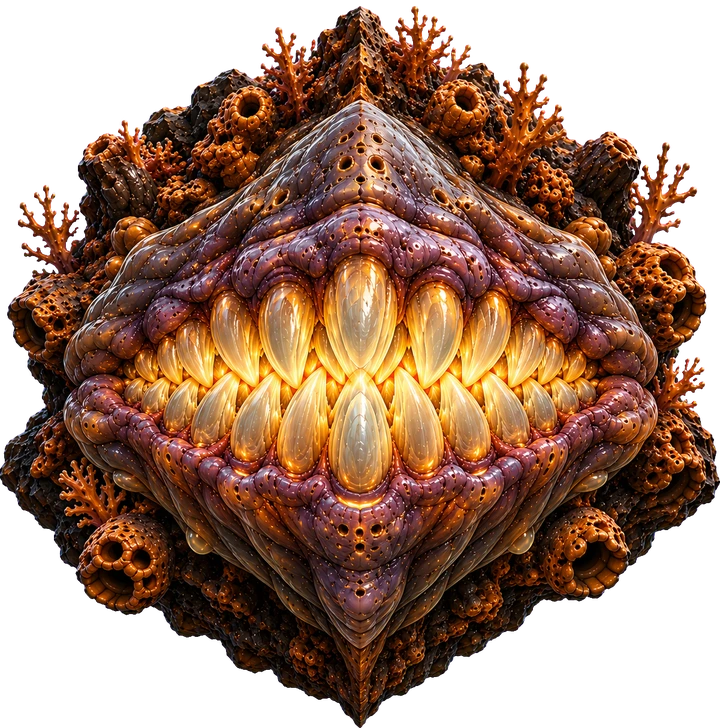
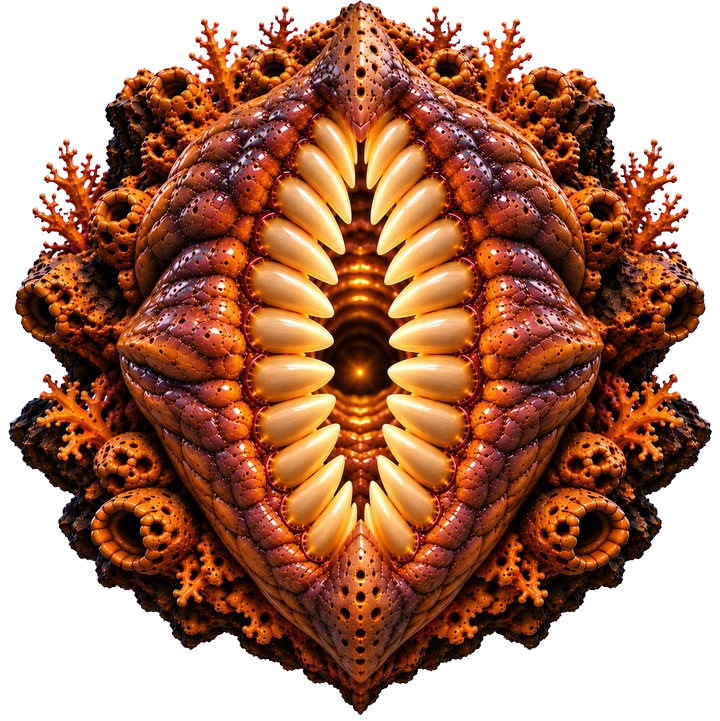
Пасть: три состояния, отход после пика, проход по правилам 1c/1d
- maw.js: кроссфейд open -> half -> closed по смыканию; после пика отход:
  проход расширяется, масштаб до 90%, затемнение до 40%
- Проход на экране считается с учётом масштаба; центр проходим на всём
  протяжении (симуляция: 0 смертей из 1.6 млн проверок центра)
- key_maw.py ключует три исходника; ассеты maw_open/half/closed.webp

diff --git a/js/maw.js b/js/maw.js
@@ -1,16 +1,19 @@
 // ===== maw.js =====
 // ============================================================
-// ПАСТЬ — веха. Перекрывает ущелье по ширине: зубы стоят у стен, между
-// ними отверстие по центру. По мере приближения дрона зубы сходятся.
+// ПАСТЬ — веха. Занимает всю ширину передышки: губы прилегают к стенам,
+// зубы-полусферы образуют дугу, между вершинами по центру — глотка-сфинктер.
+// Правила прохождения — docs/tz_creatures_ru.md (1, 1a–1d):
+//   1.  Проход всегда возможен, если войти по центру (96 px между вершинами).
+//   1a. Смертельны только зубы. Губы и десны проходятся без урона.
+//   1c. Сомкнутая пасть проходима только по центральной оси, в пике смыкания.
+//       Затем пасть отходит: проход расширяется, пасть уменьшается и темнеет.
+//   1d. По бокам пустот нет: пасть занимает всю ширину коридора.
 //
-// Правила прохождения (docs/tz_creatures_ru.md, согласованы):
-//   1. Проход всегда возможен, если войти по центру: отверстие не закрывается
-//      ниже HOLE_RX_MIN, то есть 96 px поперёк при дроне 36 px.
-//   2. Смыкание идёт CLOSE_S секунд падения (не меньше 0.5 с).
-//   3. Смыкание начинается до входа: сигнал виден заранее.
-//
-// Прогресс смыкания p — функция глубины, а не таймера. Значит, картинка и
-// хитбокс всегда показывают одно и то же состояние, и пауза ничего не ломает.
+// Всё состояние — функция глубины дрона, а не таймера: картинка и проход
+// всегда показывают одно и то же, пауза ничего не ломает.
+//   start  — начало смыкания (до входа в пасть на SIGNAL_LEAD)
+//   closed — пик смыкания, проход минимальный (96 px по центру)
+//   closed .. closed+RETREAT — отход: проход расширяется, масштаб уменьшается
 // ============================================================
 
 const Maw = (() => {
@@ -19,7 +22,7 @@ const Maw = (() => {
   const W = M.W_PX, HH = M.H_PX;
   const DR = CONFIG.DRONE_RADIUS;
 
-  let list = [];            // {depth (центр в метрах), xc (центр отверстия, px), alive}
+  let list = [];            // {depth (центр в метрах), xc (центр по X, px)}
   let nextSpawn = 0;
   let armed = false;
   let _pxPerM = 1;
@@ -29,28 +32,39 @@ const Maw = (() => {
   function reset() { list = []; nextSpawn = 0; armed = false; _lastDepth = null; }
 
   function _span(pxPerM) { return HH / pxPerM; }
-
-  // Время смыкания в метрах падения при текущей скорости
   function _closeM() { return M.CLOSE_S * _v; }
+  function _retreatM() { return M.RETREAT_S * _v; }
 
-  // Прогресс смыкания 0..1 по глубине дрона. Сигнал начинается заранее:
-  // при входе в пасть смыкание уже на SIGNAL_LEAD.
-  function _p(m, droneDepth, pxPerM) {
-    const top = m.depth - _span(pxPerM) / 2;
-    const cm = _closeM();
-    const start = top - M.SIGNAL_LEAD * cm;
-    let u = (droneDepth - start) / cm;
+  // Гладкая кривая 0..1 по линейной величине u
+  function _ramp(u) {
     u = Math.max(0, Math.min(1, u));
     return u * u * (3 - 2 * u);
   }
 
-  // Полуширина отверстия при прогрессе p
-  function _rx(p) { return M.HOLE_RX + (M.HOLE_RX_MIN - M.HOLE_RX) * p; }
+  // Состояние пасти на глубине дрона dd:
+  //   p  — смыкание 0..1 (открыто -> сомкнуто)
+  //   q  — отход 0..1 (после пика)
+  //   s  — масштаб спрайта (1 -> 1 - SHRINK)
+  //   rx — полуширина прохода на экране, px
+  function _state(m, dd, pxPerM) {
+    const span = _span(pxPerM);
+    const top = m.depth - span / 2;
+    const cm = _closeM();
+    const rm = _retreatM();
+    const start = top - M.SIGNAL_LEAD * cm;
+    const closed = start + cm;
+    const p = _ramp((dd - start) / cm);
+    const q = _ramp((dd - closed) / rm);
+    let rx = M.HOLE_RX + (M.HOLE_RX_MIN - M.HOLE_RX) * p;
+    rx = rx + (M.HOLE_RX - rx) * q;
+    const s = 1 - M.SHRINK * q;
+    return { p, q, s, rx: rx * s };
+  }
 
   // ---------- появление ----------
 
   // Можно ли поставить пасть с центром на глубине dc: вся высота в передышке
-  // и ущелье не уже ширины спрайта
+  // и ущелье не уже ширины спрайта (правило 1d: пасть перекрывает коридор)
   function _fit(dc, pxPerM) {
     const span = _span(pxPerM);
     const top = Canyon.getWalls(dc - span / 2), bot = Canyon.getWalls(dc + span / 2);
@@ -74,7 +88,7 @@ const Maw = (() => {
         if (fit) { placed = { d, fit }; break; }
       }
       if (!placed) { nextSpawn += M.SEARCH_AHEAD; continue; }
-      list.push({ depth: placed.d, xc: placed.fit.xc, alive: true });
+      list.push({ depth: placed.d, xc: placed.fit.xc });
       nextSpawn = placed.d + M.SPAWN_EVERY;
     }
   }
@@ -90,32 +104,31 @@ const Maw = (() => {
     }
     _lastDepth = depth;
     _maybeSpawn(depth, aheadDepth, pxPerM);
-    // Пасть ушла за верх экрана целиком
+    // Пасть ушла за верх экрана целиком (с запасом на отход)
     const span = _span(pxPerM);
-    list = list.filter(m => m.depth + span / 2 > depth - 10);
+    list = list.filter(m => m.depth + span / 2 + _closeM() + _retreatM() > depth - 10);
   }
 
   // ---------- столкновение и выстрел ----------
 
+  // Дрон гибнет, если выходит за проход по центру. Зубы — единственная опасность.
   function hitTest(droneX, droneDepth, pxPerM) {
     const span = _span(pxPerM);
     for (const m of list) {
       if (droneDepth < m.depth - span / 2 || droneDepth > m.depth + span / 2) continue;
-      const rx = _rx(_p(m, droneDepth, pxPerM));
-      // Зубы сходятся к центру: за пределами отверстия дрон цел только если
-      // целиком внутри него, с учётом своего радиуса
-      if (Math.abs(droneX - m.xc) > rx - DR) return true;
+      const st = _state(m, droneDepth, pxPerM);
+      if (Math.abs(droneX - m.xc) > st.rx - DR) return true;
     }
     return false;
   }
 
-  // Пуля в зубы поглощается, в отверстие пролетает. Пасть не убивается.
+  // Пуля в зубы поглощается, в глотку пролетает. Пасть не умирает.
   function shootAt(sx, sDepth, pxPerM) {
     const span = _span(pxPerM);
     for (const m of list) {
       if (sDepth < m.depth - span / 2 || sDepth > m.depth + span / 2) continue;
-      const rx = _rx(_p(m, sDepth, pxPerM));
-      if (Math.abs(sx - m.xc) > rx) return { x: sx, y: sDepth };
+      const st = _state(m, sDepth, pxPerM);
+      if (Math.abs(sx - m.xc) > st.rx) return { x: sx, y: sDepth };
     }
     return null;
   }
@@ -131,29 +144,43 @@ const Maw = (() => {
 
   // ---------- отрисовка ----------
 
+  // Три спрайта: открыто (p=0) -> наполовину (p=0.5) -> сомкнуто (p=1).
+  // Переход между соседними кадрами — кроссфейд по p.
+  function _alphas(p) {
+    if (p <= 0.5) return { open: 1 - 2 * p, half: 2 * p, closed: 0 };
+    return { open: 0, half: 2 - 2 * p, closed: 2 * p - 1 };
+  }
+
   function draw(ctx, depth, pxPerM) {
     const open = Sprites.at('maw_open', W, HH, false);
+    const half = Sprites.at('maw_half', W, HH, false);
     const shut = Sprites.at('maw_closed', W, HH, false);
-    if (!open || !shut) return;   // игра идёт и без картинки; хитбокс остаётся
+    if (!open || !half || !shut) return;   // без картинки хитбокс остаётся
+
     const droneDepth = depth + CONFIG.DRONE_Y / pxPerM;
     for (const m of list) {
-      const py = (m.depth - depth) * pxPerM;
-      if (py < -HH / 2 - 40 || py > CONFIG.CANVAS_H + HH / 2 + 40) continue;
-      const p = _p(m, droneDepth, pxPerM);
-      ctx.globalAlpha = 1 - p;
-      ctx.drawImage(open, m.xc - W / 2, py - HH / 2, W, HH);
-      ctx.globalAlpha = p;
-      ctx.drawImage(shut, m.xc - W / 2, py - HH / 2, W, HH);
+      const st = _state(m, droneDepth, pxPerM);
+      const w = W * st.s, h = HH * st.s;
+      const cy = (m.depth - depth) * pxPerM;
+      if (cy < -h / 2 - 40 || cy > CONFIG.CANVAS_H + h / 2 + 40) continue;
+      const x = m.xc - w / 2, y = cy - h / 2;
+      const a = _alphas(st.p);
+
+      const dim = st.q > 0 && 'filter' in ctx;
+      if (dim) ctx.filter = `brightness(${1 - M.DIM * st.q})`;
+      if (a.open > 0)   { ctx.globalAlpha = a.open;   ctx.drawImage(open, x, y, w, h); }
+      if (a.half > 0)   { ctx.globalAlpha = a.half;   ctx.drawImage(half, x, y, w, h); }
+      if (a.closed > 0) { ctx.globalAlpha = a.closed; ctx.drawImage(shut, x, y, w, h); }
       ctx.globalAlpha = 1;
+      if (dim) ctx.filter = 'none';
 
       if (M.DEBUG) {
         ctx.save();
         ctx.strokeStyle = 'rgba(255,60,60,0.9)';
         ctx.lineWidth = 1;
-        const rx = _rx(p);
         ctx.beginPath();
-        ctx.moveTo(m.xc - rx, py - HH / 2); ctx.lineTo(m.xc - rx, py + HH / 2);
-        ctx.moveTo(m.xc + rx, py - HH / 2); ctx.lineTo(m.xc + rx, py + HH / 2);
+        ctx.moveTo(m.xc - st.rx, cy - h / 2); ctx.lineTo(m.xc - st.rx, cy + h / 2);
+        ctx.moveTo(m.xc + st.rx, cy - h / 2); ctx.lineTo(m.xc + st.rx, cy + h / 2);
         ctx.stroke();
         ctx.restore();
       }

diff --git a/js/config.js b/js/config.js
@@ -443,6 +443,9 @@ const CONFIG = {
     HOLE_RX_MIN: 48,         // px: полуширина в сомкнутом виде (проход 96 px по центру)
     CLOSE_S: 0.8,            // с падения на полное смыкание, не меньше 0.5
     SIGNAL_LEAD: 0.5,        // доля смыкания, которая уже идёт до входа в пасть
+    RETREAT_S: 0.6,          // с падения на отход от пика смыкания
+    SHRINK: 0.10,            // при полном отходе пасть уменьшается на эту долю
+    DIM: 0.40,               // при полном отходе пасть темнеет на эту долю
     DEBUG: false,
   },
 

diff --git a/js/game.js b/js/game.js
@@ -52,6 +52,7 @@ const Game = (() => {
       { name: 'hydra_idle',   w: CONFIG.HYDRA.W_PX, h: CONFIG.HYDRA.H_PX },
       { name: 'hydra_strike', w: CONFIG.HYDRA.W_PX, h: CONFIG.HYDRA.H_PX },
       { name: 'maw_open',     w: CONFIG.MAW.W_PX,   h: CONFIG.MAW.H_PX },
+      { name: 'maw_half',     w: CONFIG.MAW.W_PX,   h: CONFIG.MAW.H_PX },
       { name: 'maw_closed',   w: CONFIG.MAW.W_PX,   h: CONFIG.MAW.H_PX },
       { name: 'eel_burrow', w: CONFIG.EEL.BURROW_W, h: CONFIG.EEL.BURROW_H },
       { name: 'eel_burrow', w: CONFIG.EEL.BURROW_W, h: CONFIG.EEL.BURROW_H, flip: true },

diff --git a/js/sprites.js b/js/sprites.js
@@ -36,6 +36,7 @@ const Sprites = (() => {
     hydra_idle:    'assets/creatures/hydra_idle.webp',
     hydra_strike:  'assets/creatures/hydra_strike.webp',
     maw_open:      'assets/creatures/maw_open.webp',
+    maw_half:      'assets/creatures/maw_half.webp',
     maw_closed:    'assets/creatures/maw_closed.webp',
     eel_head:      'assets/creatures/eel_head.webp',
     eel_body:      'assets/creatures/eel_body.webp',

diff --git a/tools/key_maw.py b/tools/key_maw.py
@@ -1,5 +1,5 @@
-# Вырезает фон из исходников пасти (открытая и сомкнутая) в общей рамке.
-# Фон магента (#FF00FF). Запуск из корня репозитория: python3 tools/key_maw.py
+# Вырезает фон из исходников пасти (три состояния: open, half, closed) в общей
+# рамке. Фон магента (#FF00FF). Запуск из корня репозитория: python3 tools/key_maw.py
 import os
 import numpy as np
 from PIL import Image
@@ -31,7 +31,7 @@ def key(path):
 
 
 def main():
-    keyed = {n: key(SRC + f'maw_{n}_src.png') for n in ['open', 'closed']}
+    keyed = {n: key(SRC + f'maw_{n}_src.png') for n in ['open', 'half', 'closed']}
     boxes = []
     for rgba in keyed.values():
         ys, xs = np.where(rgba[..., 3] > 8)
